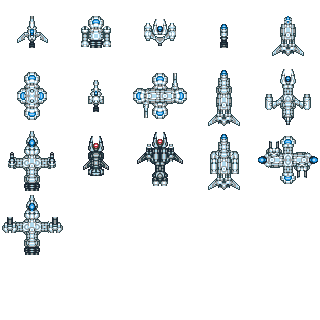
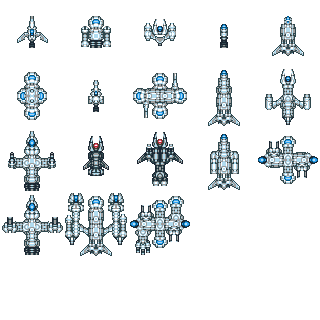
#12 Added massive freighter and starbase images.

Changed region(s): [[0.1875, 0.5938, 0.5938, 0.8125]]

diff --git a/src/org/openRealmOfStars/player/ship/ShipImage.java b/src/org/openRealmOfStars/player/ship/ShipImage.java
@@ -124,6 +124,10 @@ public class ShipImage {
     smallShipImages[LARGE_STARBASE] = scaleTo32x32(shipImages[LARGE_STARBASE]);
     shipImages[BATTLECRUISER] = image64x64(image,0,3);
     smallShipImages[BATTLECRUISER] = scaleTo32x32(shipImages[BATTLECRUISER]);
+    shipImages[MASSIVE_FREIGHTER] = image64x64(image,1,3);
+    smallShipImages[MASSIVE_FREIGHTER] = scaleTo32x32(shipImages[MASSIVE_FREIGHTER]);
+    shipImages[MASSIVE_STARBASE] = image64x64(image,2,3);
+    smallShipImages[MASSIVE_STARBASE] = scaleTo32x32(shipImages[MASSIVE_STARBASE]);
   }
   
   private BufferedImage image64x64(BufferedImage image, int x, int y) throws

diff --git a/src/org/openRealmOfStars/player/ship/ShipHullFactory.java b/src/org/openRealmOfStars/player/ship/ShipHullFactory.java
@@ -189,11 +189,13 @@ public class ShipHullFactory {
     if (index == 21) {
       tmp = new ShipHull(index, "Massive freighter", 12, 2, ShipHullType.FREIGHTER,
           ShipSize.HUGE,14,25,race);
+      tmp.setImageIndex(ShipImage.MASSIVE_FREIGHTER);
       return tmp;
     }
     if (index == 22) {
       tmp = new ShipHull(index, "Massive starbase", 10, 4, ShipHullType.STARBASE,
           ShipSize.HUGE,25,25,race);
+      tmp.setImageIndex(ShipImage.MASSIVE_STARBASE);
       return tmp;
     }
     if (index == 23) {
